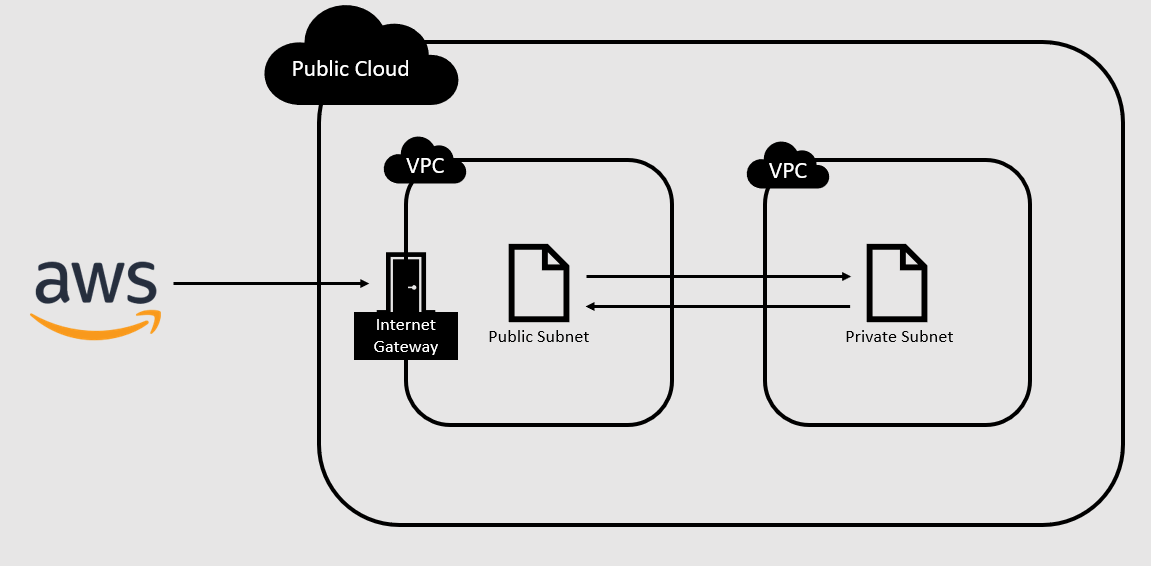
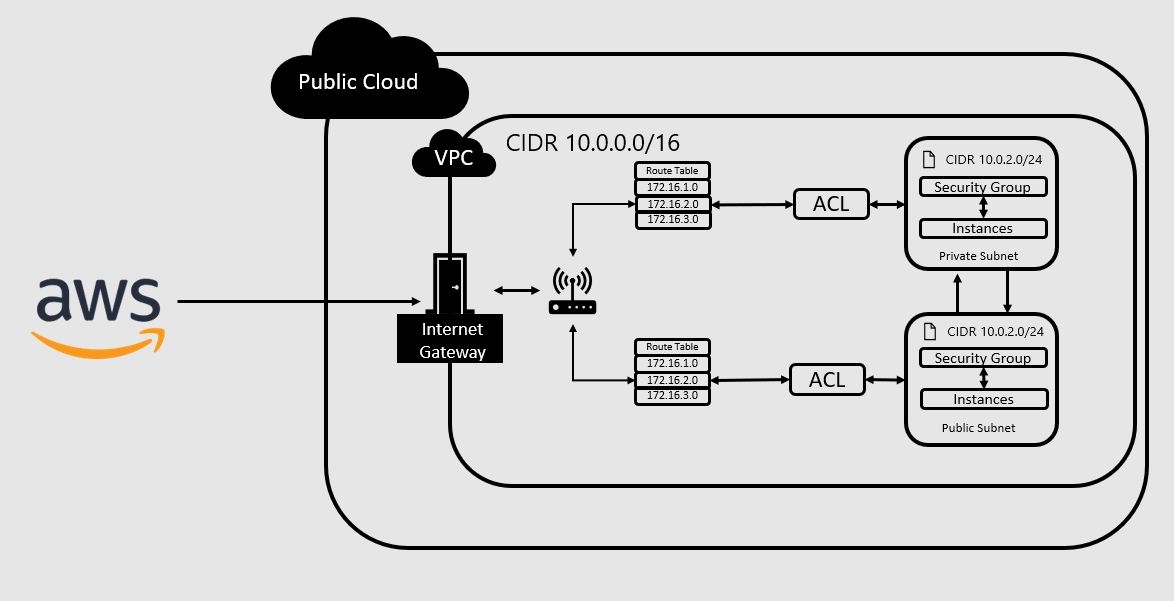
How To Create A VPC and Editted THE VPC Image

diff --git a/README.md b/README.md
@@ -14,6 +14,12 @@
   - [Creating An Auto Scaling Group With Load Balancer](#creating-an-auto-scaling-group-with-load-balancer)
     - [Blocker Faced During Creating An Auto Scaling Group](#blocker-faced-during-creating-an-auto-scaling-group)
   - [Amazon Web Service Networking](#amazon-web-service-networking)
+  - [Creating Own VPC On AWS](#creating-own-vpc-on-aws)
+    - [Virtual Private Cloud](#virtual-private-cloud)
+    - [Internet Gateway](#internet-gateway)
+    - [Subnet](#subnet)
+    - [Route Table](#route-table)
+    - [Connecting The Database Instance](#connecting-the-database-instance)
 
 ## What is Amazon S3
 Amazon S3 is a storage service offered by amazon which allows storage of any format. The service offers:
@@ -180,5 +186,58 @@ Inspired by Zilamo
   - Is an optional layer of security for your VPC that acts as a firewall for traffic coming in and out of your subnets
 
 ![VPC](VPC.PNG)
+
+[Back](#table-of-contents)
+
+1. Select A Region "Ireland"
+2. Create VPC (Virtual Private Cloud)
+3. Valid CDIR Block For Our VPC "10.0.0.0/16"
+4. Create Internet Gateway
+5. Attach the Internet Gateway To Our VPC
+6. Create A Public Subnet
+7. Associate Subnet To VPC
+8. Route Table/s For Public
+9. Edit Routes To Allow Internet Gateway
+10. Associate To Our Public Subnet
+11. Create A Security Group In Our Public Subnet To Allow Required Ports/Traffic
+    - Allow Port 80 & 3000 For Our Example
+
+[Back](#table-of-contents)
+
+## Creating Own VPC On AWS  
+
+### Virtual Private Cloud
+- Under `VPC` > `Your VPCs` > Click `Create VPC`
+- Enter A Name For Your VPC `eng103a-armaan-vpc`
+- Enter The CIDR Block `10.0.0.0/16`
+
+### Internet Gateway
+- Under `Internet Gateway` > Click `Create Internet Gateway`
+- Enter A Name For Your Internet Gateway `eng103a-armaan-ig`
+- Click `Actions` > Click `Attach VPC` and attach `eng103a-armaan-vpc`
+
+### Subnet
+- Under `Subnets` > Click `Create Subnet`
+- Select Your VPC `eng103a-armaan-vpc`
+- Enter A Name For Your Subnet `eng103a-armaan-subnet-public`
+- Enter The CIDR Block `10.0.2.0/24`
+
+### Route Table
+- Under `Route Tables` > Click `Create Route Table`
+- Select Your VPC `eng103a-armaan-vpc`
+- Enter A Name For Your Route Table `eng103a-armaan-rt-public`
+- Click `Actions` > `Edit Routes` > `Add Route`
+- Destination `0.0.0.0/0` (Anyone Can Access)
+- Target `eng103a-armaan-subnet-public` (Internet Gateway)
+- Click `Actions` > `Edit Subnet Associations` > Select `eng103a-armaan-ig` (Will Be Shown Different After Selected)
+
+### Connecting The Database Instance
+- Follow The Steps Above But Create A New Subnet:
+  - Subnet Name `eng103a-armaan-subnet-private`
+  - CIDR Block For Subset `10.0.3.0/24`
+- Create A New Route Table:
+  - Route Table Name `eng103a-armaan-rt-private`
+  - No Need To Edit Routes As This Should Not Be Accessed By The Public
+  - Click `Actions` > `Edit Subnet Associations` > Select `eng103a-armaan-ig`
 
 [Back](#table-of-contents)
